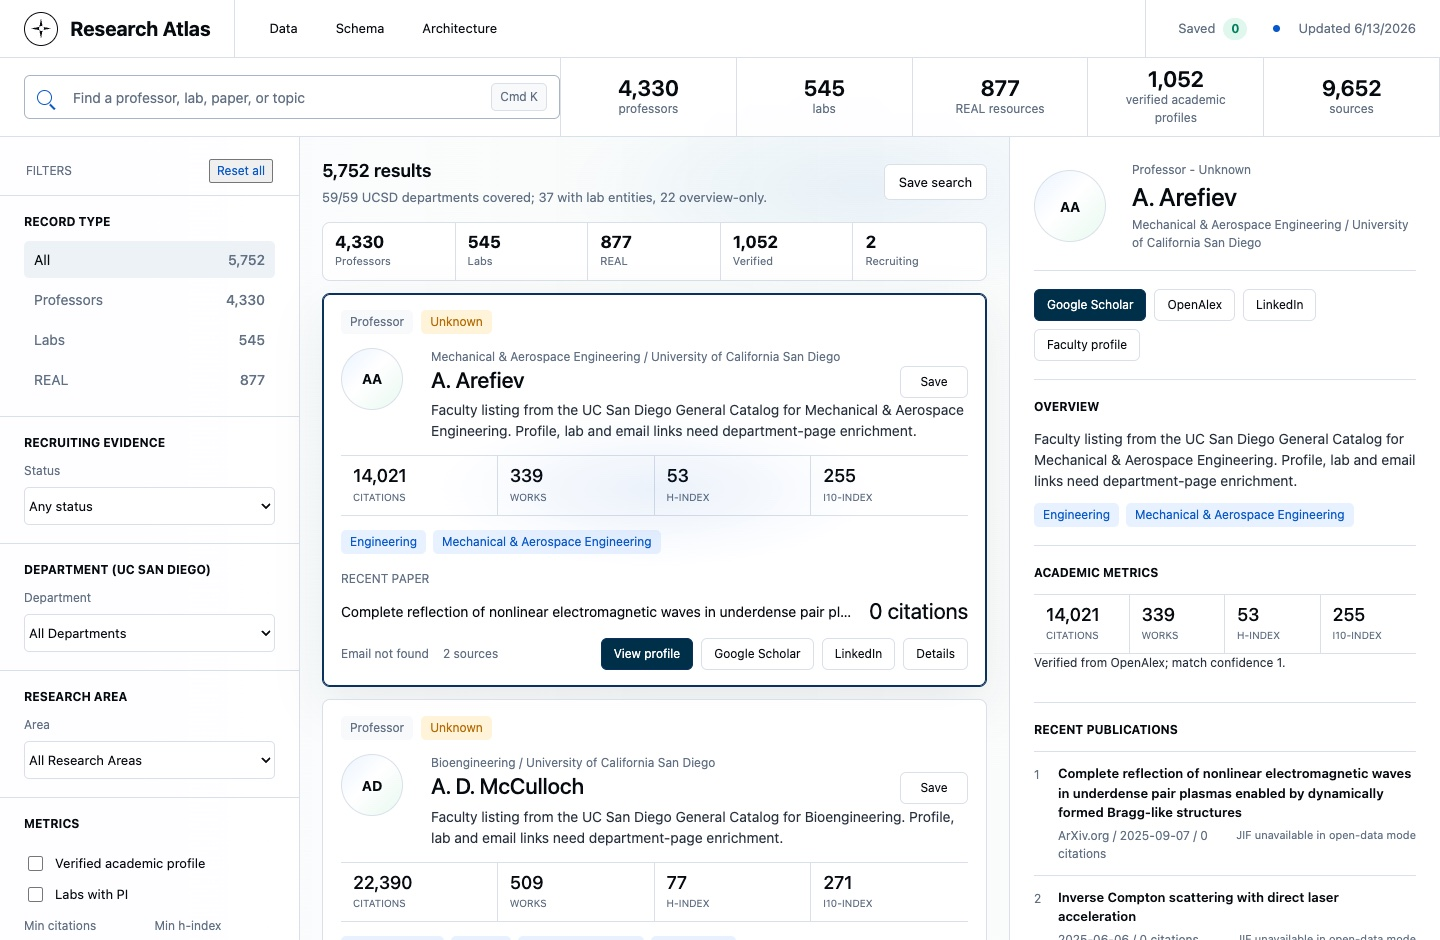
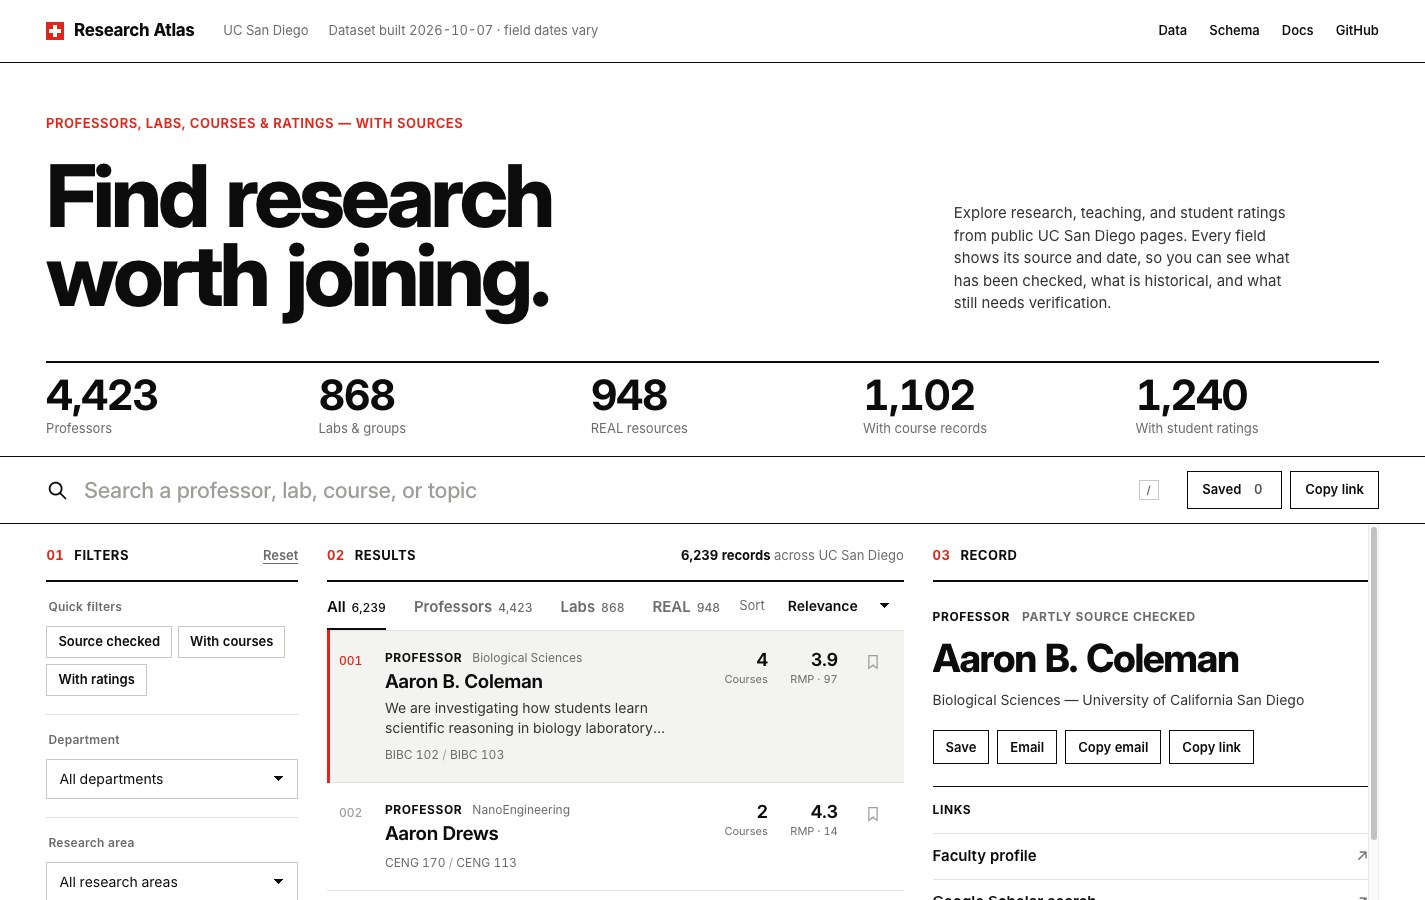
Add live Research Atlas link and refresh project preview

diff --git a/index.html b/index.html
@@ -149,8 +149,8 @@
           <details class="project-item reveal">
             <summary><span class="row-index">04</span><span class="project-name"><span class="project-title">Research Atlas</span><span class="project-category" data-i18n="project3Category">Web / Research tools</span></span><span class="plus-mark" aria-hidden="true"></span></summary>
             <div class="project-detail disclosure-body">
-              <div class="project-summary"><p data-i18n="project3Desc">A searchable map of UC San Diego research, bringing faculty, labs, opportunities, and academic profiles into one interface.</p><a class="text-link underlined accent-link" href="https://github.com/wenhaoquestion/UCSD-Research-Finder" aria-label="Research Atlas — view repository" data-i18n-aria="project3Aria"><span data-i18n="viewRepo">View repository</span><svg class="icon" aria-hidden="true"><use href="#arrow-ne"/></svg></a></div>
-              <figure class="project-figure atlas-figure"><a href="./assets/research-atlas.jpg" class="image-link" data-lightbox aria-label="Enlarge Research Atlas interface" data-i18n-aria="atlasImageAria"><img src="./assets/research-atlas.jpg" width="1440" height="940" alt="Research Atlas interface with faculty search, research filters, results, and profile details." loading="lazy" decoding="async"></a><figcaption><span data-i18n="atlasCaption">Interface study — Search, filter, and explore UC San Diego research.</span><span class="figure-action" data-i18n="enlarge">Click image to enlarge ↗</span></figcaption></figure>
+              <div class="project-summary"><p data-i18n="project3Desc">A searchable map of UC San Diego research, bringing faculty, labs, opportunities, and academic profiles into one interface.</p><div class="project-actions"><a class="text-link underlined accent-link" href="https://wenhaoquestion.github.io/UCSD-Research-Finder/" aria-label="Research Atlas — visit website" data-i18n-aria="project3WebsiteAria"><span data-i18n="visitWebsite">Visit website</span><svg class="icon" aria-hidden="true"><use href="#arrow-ne"/></svg></a><a class="text-link underlined" href="https://github.com/wenhaoquestion/UCSD-Research-Finder" aria-label="Research Atlas — view GitHub repository" data-i18n-aria="project3Aria">GitHub<svg class="icon" aria-hidden="true"><use href="#arrow-ne"/></svg></a></div></div>
+              <figure class="project-figure atlas-figure"><a href="./assets/research-atlas.jpg" class="image-link" data-lightbox aria-label="Enlarge Research Atlas interface" data-i18n-aria="atlasImageAria"><img src="./assets/research-atlas.jpg" width="1425" height="900" alt="Live Research Atlas website with faculty search, research filters, course and rating summaries, and a professor profile." loading="lazy" decoding="async"></a><figcaption><span data-i18n="atlasCaption">Live website — Search, filter, and explore UC San Diego research.</span><span class="figure-action" data-i18n="enlarge">Click image to enlarge ↗</span></figcaption></figure>
             </div>
           </details>
           <details class="project-item reveal">

diff --git a/script.js b/script.js
@@ -79,9 +79,11 @@
     elasticCaption: '数值研究 — 三种弹性毛细参数下的平衡形态。',
     project3Category: '网页 / 科研工具',
     project3Desc: '一张可搜索的 UC San Diego 科研地图，将教师、实验室、科研机会与学术档案汇集于同一界面。',
-    project3Aria: 'Research Atlas — 查看代码仓库',
+    project3Aria: 'Research Atlas — 查看 GitHub 代码仓库',
+    project3WebsiteAria: 'Research Atlas — 访问网站',
+    visitWebsite: '访问网站',
     atlasImageAria: '放大 Research Atlas 界面',
-    atlasCaption: '界面设计 — 搜索、筛选并探索 UC San Diego 的科研。',
+    atlasCaption: '在线网站 — 搜索、筛选并探索 UC San Diego 的科研。',
     enlarge: '点击图片放大 ↗',
     imageViewerAria: '项目图片',
     closeImage: '关闭 ×',
@@ -113,7 +115,7 @@
   const imageDescriptions = {
     energyImageAria: 'EnergyBench 对模型排名、分词方式与能量依赖性的对比图。',
     elasticImageAria: '三种递增弹性毛细参数下的液滴与弹性梁平衡形态。',
-    atlasImageAria: 'Research Atlas 界面，包含教师搜索、研究筛选、搜索结果与个人档案详情。',
+    atlasImageAria: 'Research Atlas 在线网站，包含教师搜索、研究筛选、课程与评分概览，以及教师档案。',
     arcadeImageAria: '黑色网格上的绿色方块蛇，Wenhao’s Arcade 项目封面插图。',
   };
   const projectImages = [...document.querySelectorAll('.project-figure a')].map((link) => {

diff --git a/docs/content-sources.md b/docs/content-sources.md
@@ -10,7 +10,7 @@ Identity, expected graduation in 2029, email, current membership in the Mattia S
 1. **Cell stress.** Grounded in the chats “分析细胞侵入项目代码”, “Create cell-stress study deck”, and “Build standalone 1D cell-stress”, plus the original project rendering scripts and saved numerical states. Describes continuum models and force balance broadly: the older 2D model and newer 1D solver are different. The homepage explorer uses actual 2D baseline states, not the 1D solver. See `cell-data.md` for extraction and model limitations. No verified public repository; contact is by email.
 2. **EnergyBench.** Grounded in “构建 Aobo Li 知识库”, “撰写ROC论文并整理文献”, “克隆 energybench 仓库”, “更新Overleaf指定论文段落 (2)”, and the public `wenhaoquestion/0vbb-benchmark` repository. The figure is the existing benchmark_figure.png, resized to 1800px and compressed as JPEG. The earlier KLZNet study is related but is not represented as the same model. No publication claim is made.
 3. **Elastocapillarity.** Grounded in “改液滴模型为二维”, “推送项目到GitHub”, and the PHYS141 project README. Figure derives from results/figures/example_shapes.png: equilibrium shapes for three elastocapillary parameters. Public repository matches the original project remote.
-4. **Research Atlas.** Grounded in “重构前端并完善教授数据” and the UCSD Research Finder README. Image derives from output/research-atlas-desktop-viewport.png. Numbers inside the screenshot reflect the captured application state, not current verified totals.
+4. **Research Atlas.** Grounded in “重构前端并完善教授数据” and the UCSD Research Finder README. Website: https://wenhaoquestion.github.io/UCSD-Research-Finder/ ; repository: https://github.com/wenhaoquestion/UCSD-Research-Finder . The project preview is a fresh screenshot of the public website captured on 2026-10-08 (UTC), after its index loaded, at a 1440×940 desktop viewport. It is cropped to the upper-left 1425×900 region to omit the outer scrollbar and partial next result, then saved directly as JPEG at quality 88. No interface or data was altered. Numbers inside the screenshot reflect the captured application state, not current verified totals.
 5. **Wenhao’s Arcade.** Repository explicitly supplied by the owner: https://github.com/wenhaoquestion/My-Game-Web . README and local remote verified; live page https://wenhaoquestion.github.io/My-Game-Web/ returned HTTP 200. The supplied snake-feature.webp is original project cover artwork, not a live application screenshot.
 
 All scientific and interface images retain their original colors and content. No altered results, fabricated plots, or invented accomplishments are included.
